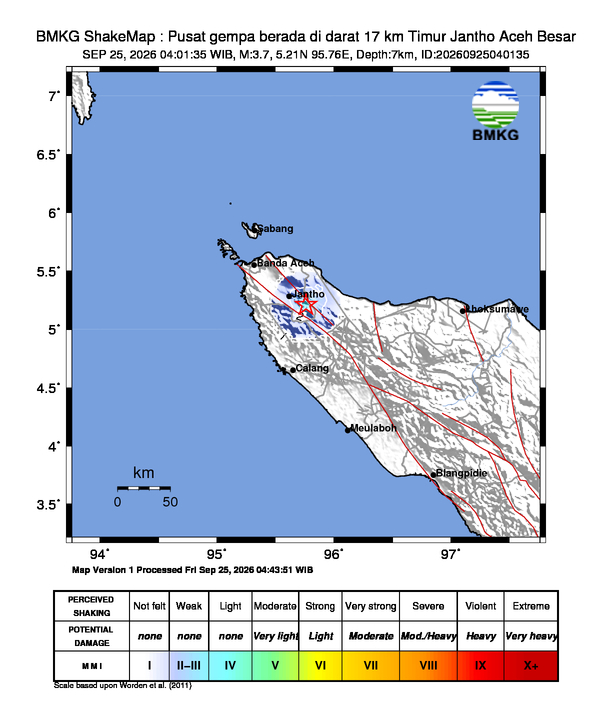
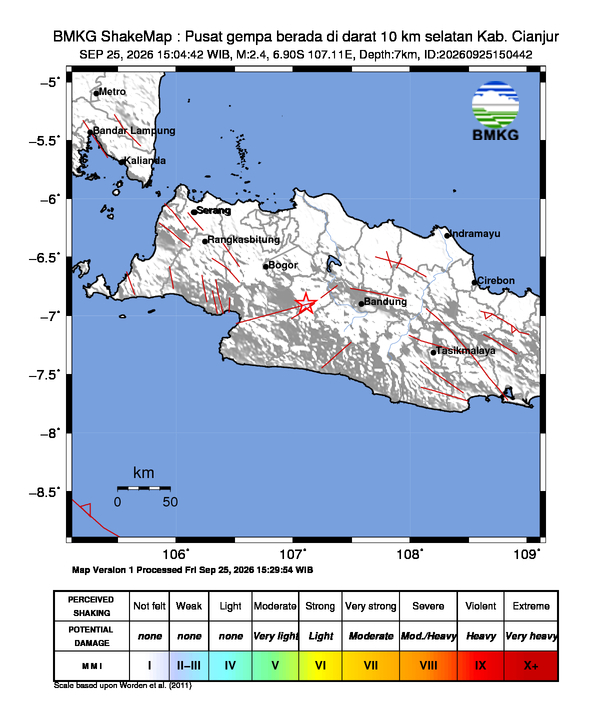
docs: update info gempa & README - 2026-09-25 20:57:27 WIB [skip ci]

diff --git a/README.md b/README.md
@@ -2,7 +2,7 @@
 
 > Monitor gempa bumi real-time untuk wilayah Indonesia. Data diambil otomatis dari **BMKG** setiap 5 menit oleh GitHub Actions, lalu ditampilkan lengkap di README ini beserta peta guncangannya (shakemap).
 
-🕒 **Update otomatis terakhir:** Jumat, 25 September 2026 pukul 05.40.21
+🕒 **Update otomatis terakhir:** Jumat, 25 September 2026 pukul 20.57.27
 
 ---
 
@@ -10,13 +10,13 @@
 
 | Parameter | Detail |
 | --- | --- |
-| 📊 **Magnitudo** | M 3.7 |
-| 📍 **Wilayah** | Pusat gempa berada di darat 17 km Timur Jantho Aceh Besar |
-| 🕒 **Waktu** | 25 Sep 2026, 04:01:35 WIB |
-| 🧭 **Koordinat** | 5.21,95.76 |
+| 📊 **Magnitudo** | M 2.4 |
+| 📍 **Wilayah** | Pusat gempa berada di darat 10 km selatan Kab. Cianjur |
+| 🕒 **Waktu** | 25 Sep 2026, 15:04:42 WIB |
+| 🧭 **Koordinat** | -6.90,107.11 |
 | 📏 **Kedalaman** | 7 km |
 | 🌊 **Potensi** | Gempa ini dirasakan untuk diteruskan pada masyarakat |
-| 📡 **Dirasakan** | III Pidie, II Pidie Jaya |
+| 📡 **Dirasakan** | II - III Kota Cianjur, II - III Cibeber, II - III Warungkondang |
 | 🔗 **Sumber** | [BMKG — InfoGempa Realtime](https://www.bmkg.go.id/gempabumi) |
 
 ### 🗺 Peta Guncangan (Shakemap)
@@ -25,10 +25,11 @@
 
 ---
 
-## 📜 Riwayat 7 Gempa Terakhir
+## 📜 Riwayat 8 Gempa Terakhir
 
 | Waktu | Magnitudo | Wilayah | Kedalaman | Potensi |
 | --- | --- | --- | --- | --- |
+| 25 Sep 2026 15:04:42 WIB | **M 2.4** | Pusat gempa berada di darat 10 km selatan Kab. Cianjur | 7 km | Gempa ini dirasakan untuk diteruskan pada masyarakat |
 | 25 Sep 2026 04:01:35 WIB | **M 3.7** | Pusat gempa berada di darat 17 km Timur Jantho Aceh Besar | 7 km | Gempa ini dirasakan untuk diteruskan pada masyarakat |
 | 24 Sep 2026 10:30:28 WIB | **M 4.6** | Pusat gempa berada di laut 57 km timur Kota Bima | 12 km | Gempa ini dirasakan untuk diteruskan pada masyarakat |
 | 23 Sep 2026 19:16:56 WIB | **M 1.8** | Pusat gempa berada di darat 24 km barat daya Lembata | 12 km | Gempa ini dirasakan untuk diteruskan pada masyarakat |
